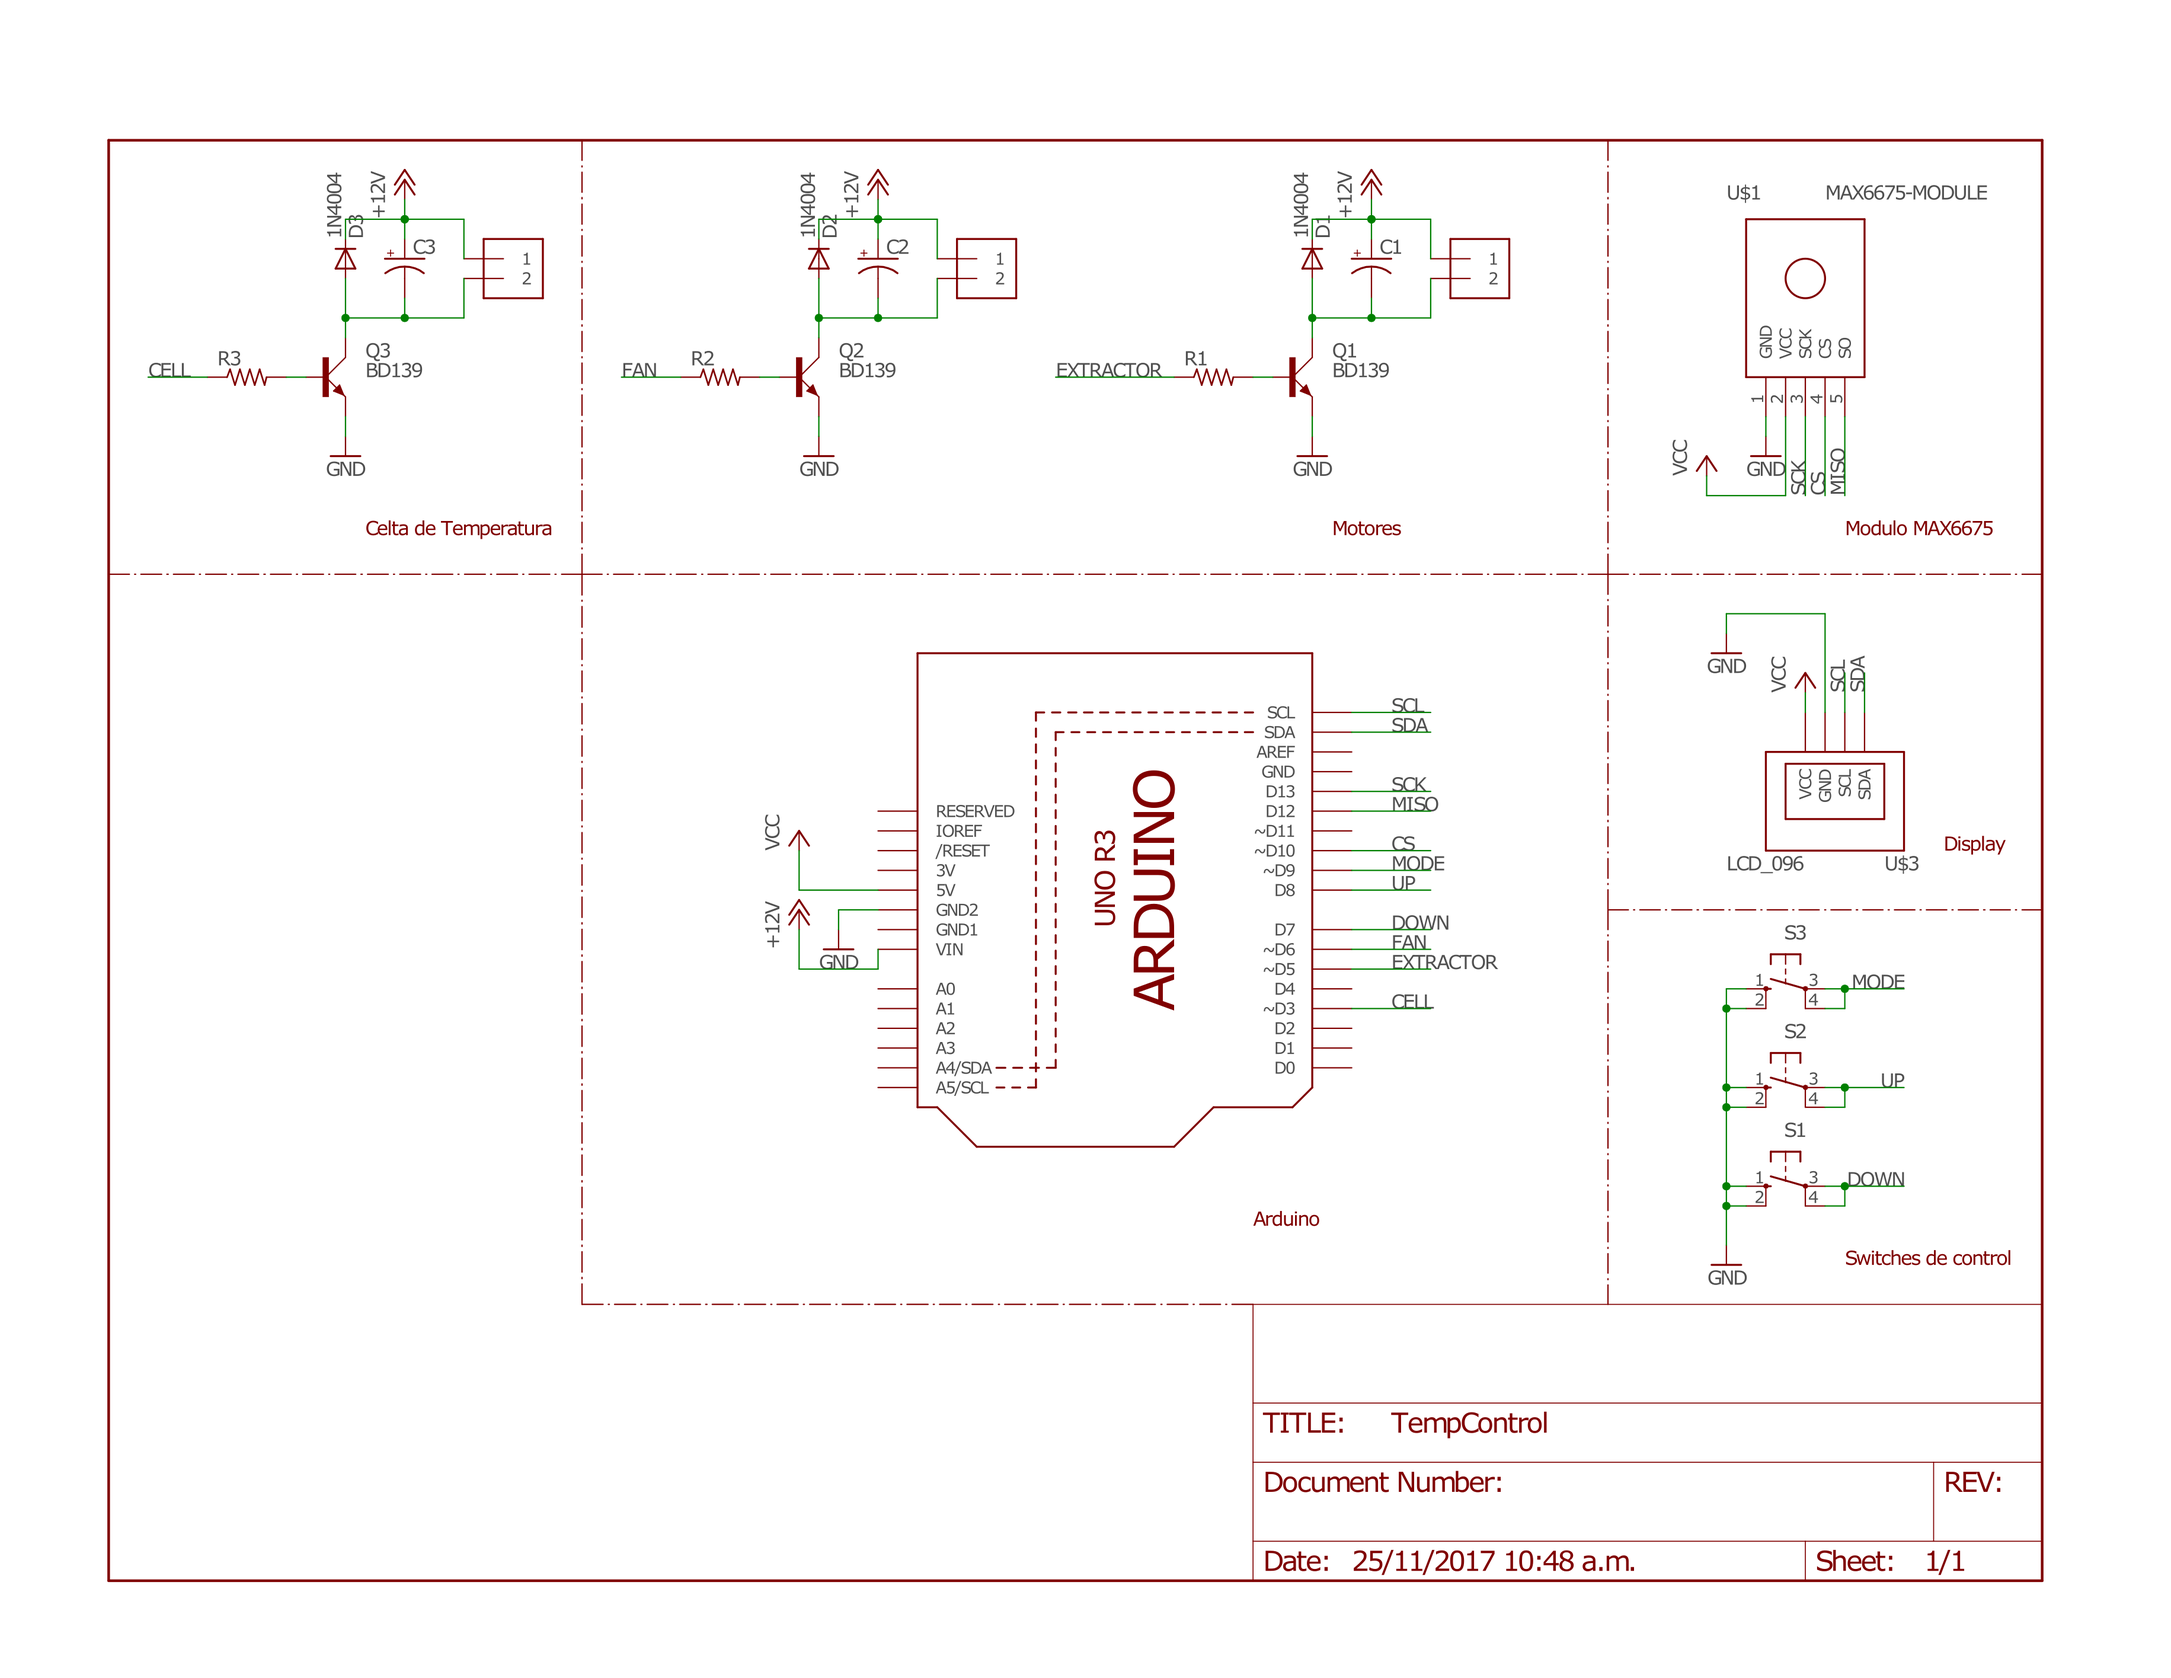
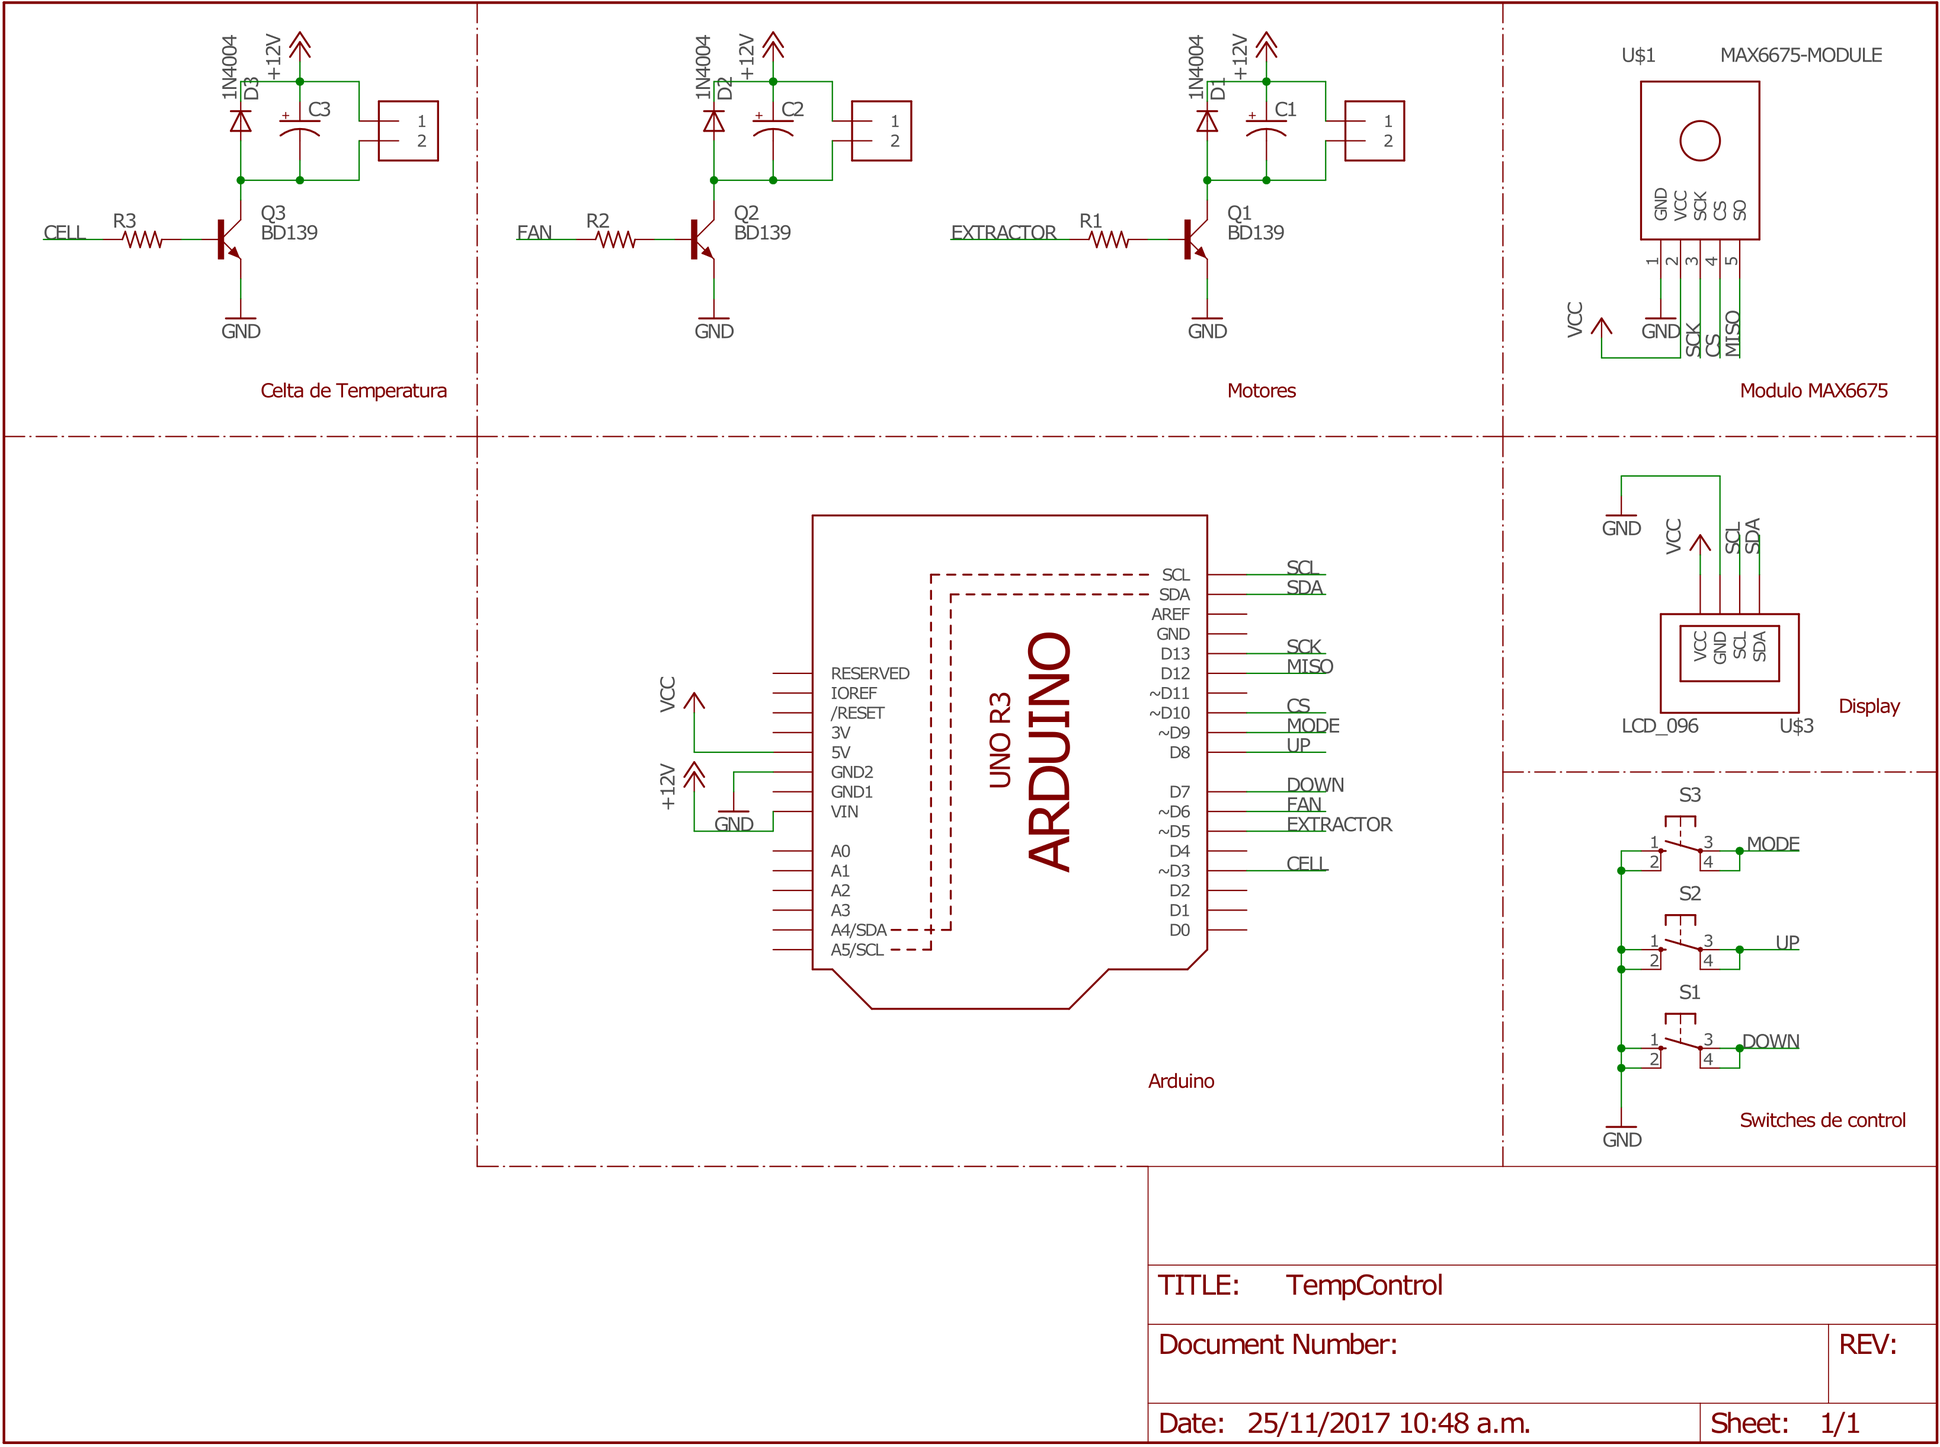
Web: Galeria
- Se cambió la posicion de las sección de desarrollo
 - update: imagen del esquemático
 - added: Novedades

diff --git a/docs/index.md b/docs/index.md
@@ -1,12 +1,6 @@
-# Development
-## Links de interés
- - [Theme Template](https://pages-themes.github.io/slate/)
- - [Online Editor](https://stackedit.io/editor#)
- - [Theme Manual](https://github.com/pages-themes/slate)
- - [Jekyll DOC](http://import.jekyllrb.com/docs/home/) 
- - [Themes](http://jekyllthemes.org/)
+    Novedades:
+    [11-25] Ya montamos las primeras imagenes de en las Galerias
 
-# Page
 ### Instalación [Pendiente]
  - Instalar El programa de Arduino
  - Descargar el archivo Zip
@@ -31,3 +25,11 @@
  - David Escalante
  - Jose Lamadrid
  - Aldair Benavides
+
+# Development
+## Links de interés
+ - [Theme Template](https://pages-themes.github.io/slate/)
+ - [Online Editor](https://stackedit.io/editor#)
+ - [Theme Manual](https://github.com/pages-themes/slate)
+ - [Jekyll DOC](http://import.jekyllrb.com/docs/home/) 
+ - [Themes](http://jekyllthemes.org/)
